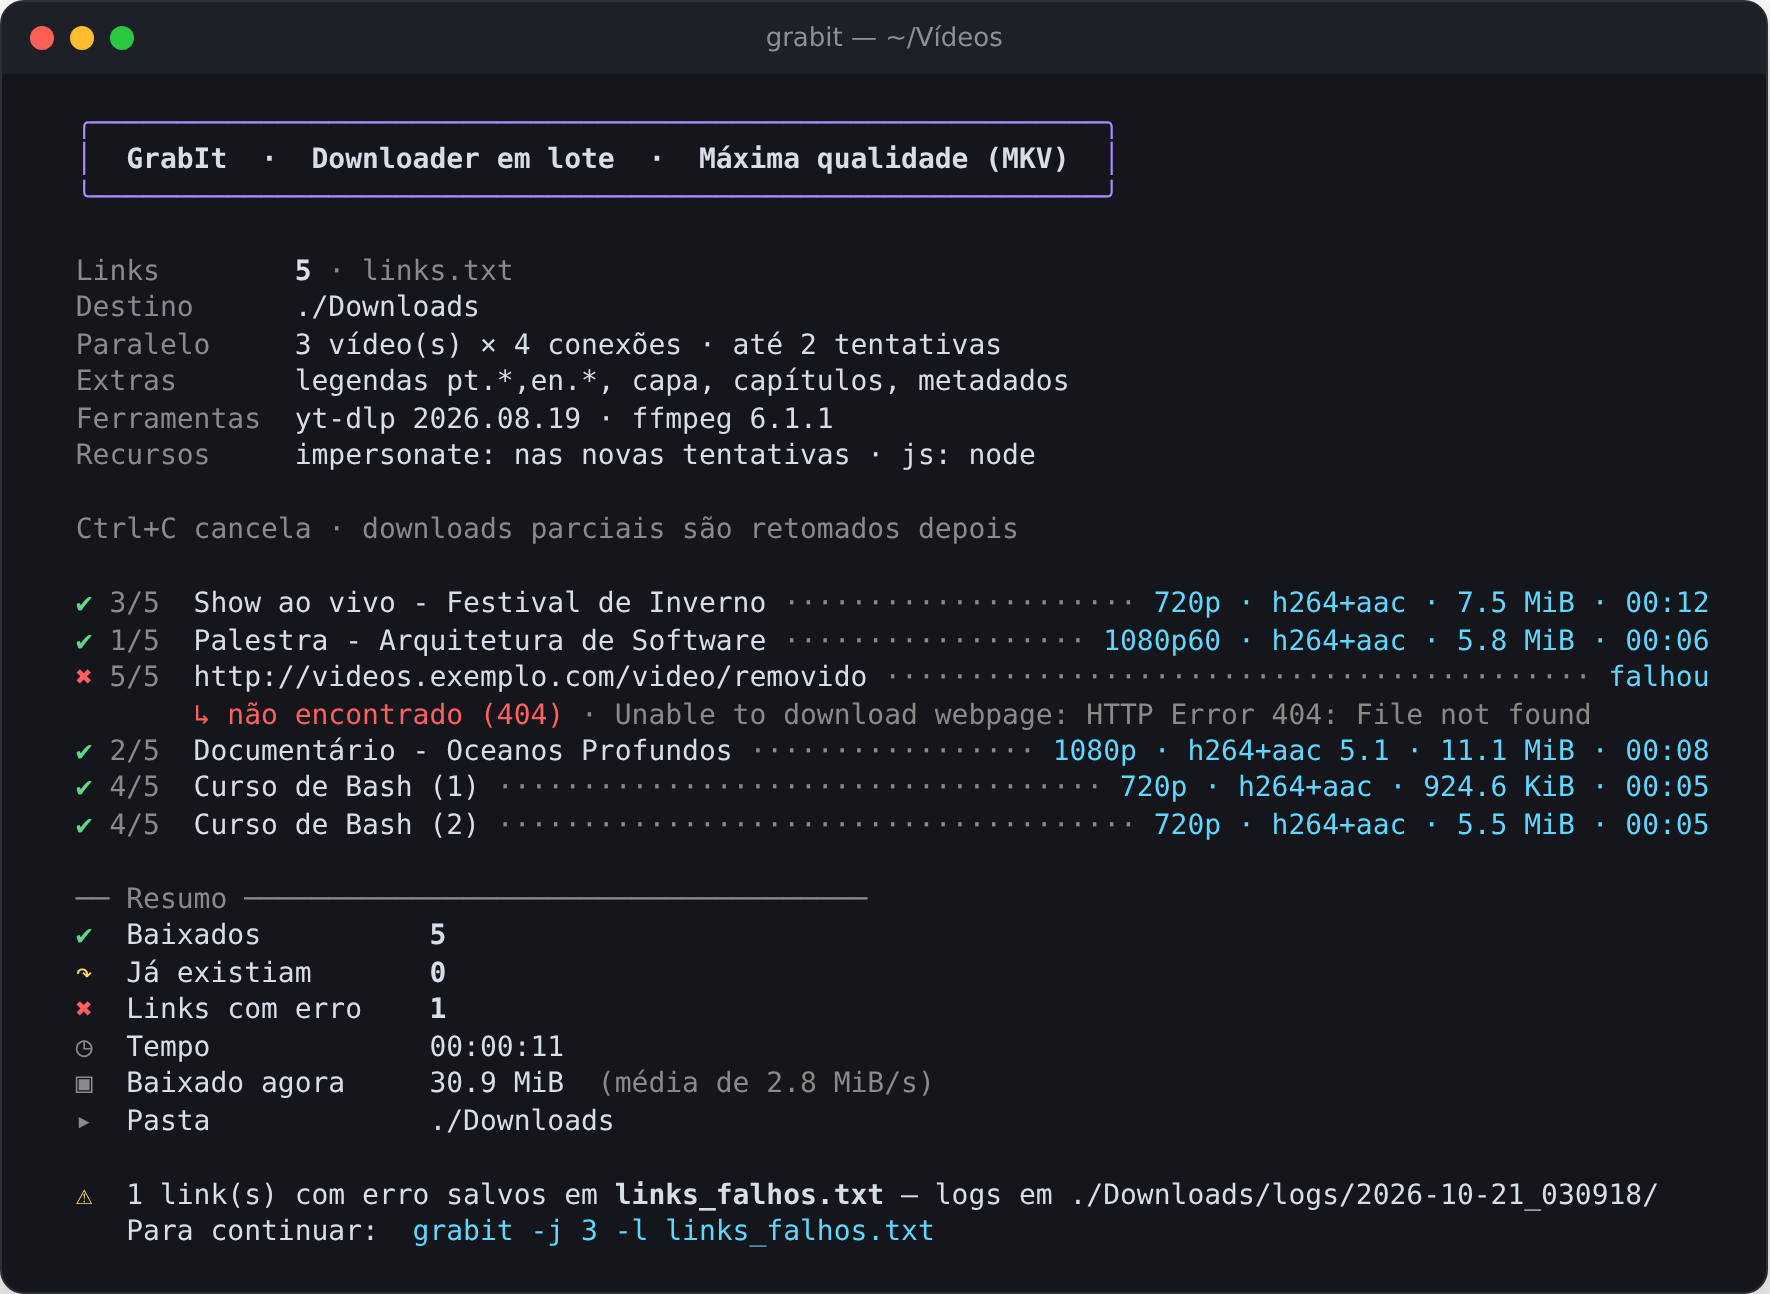
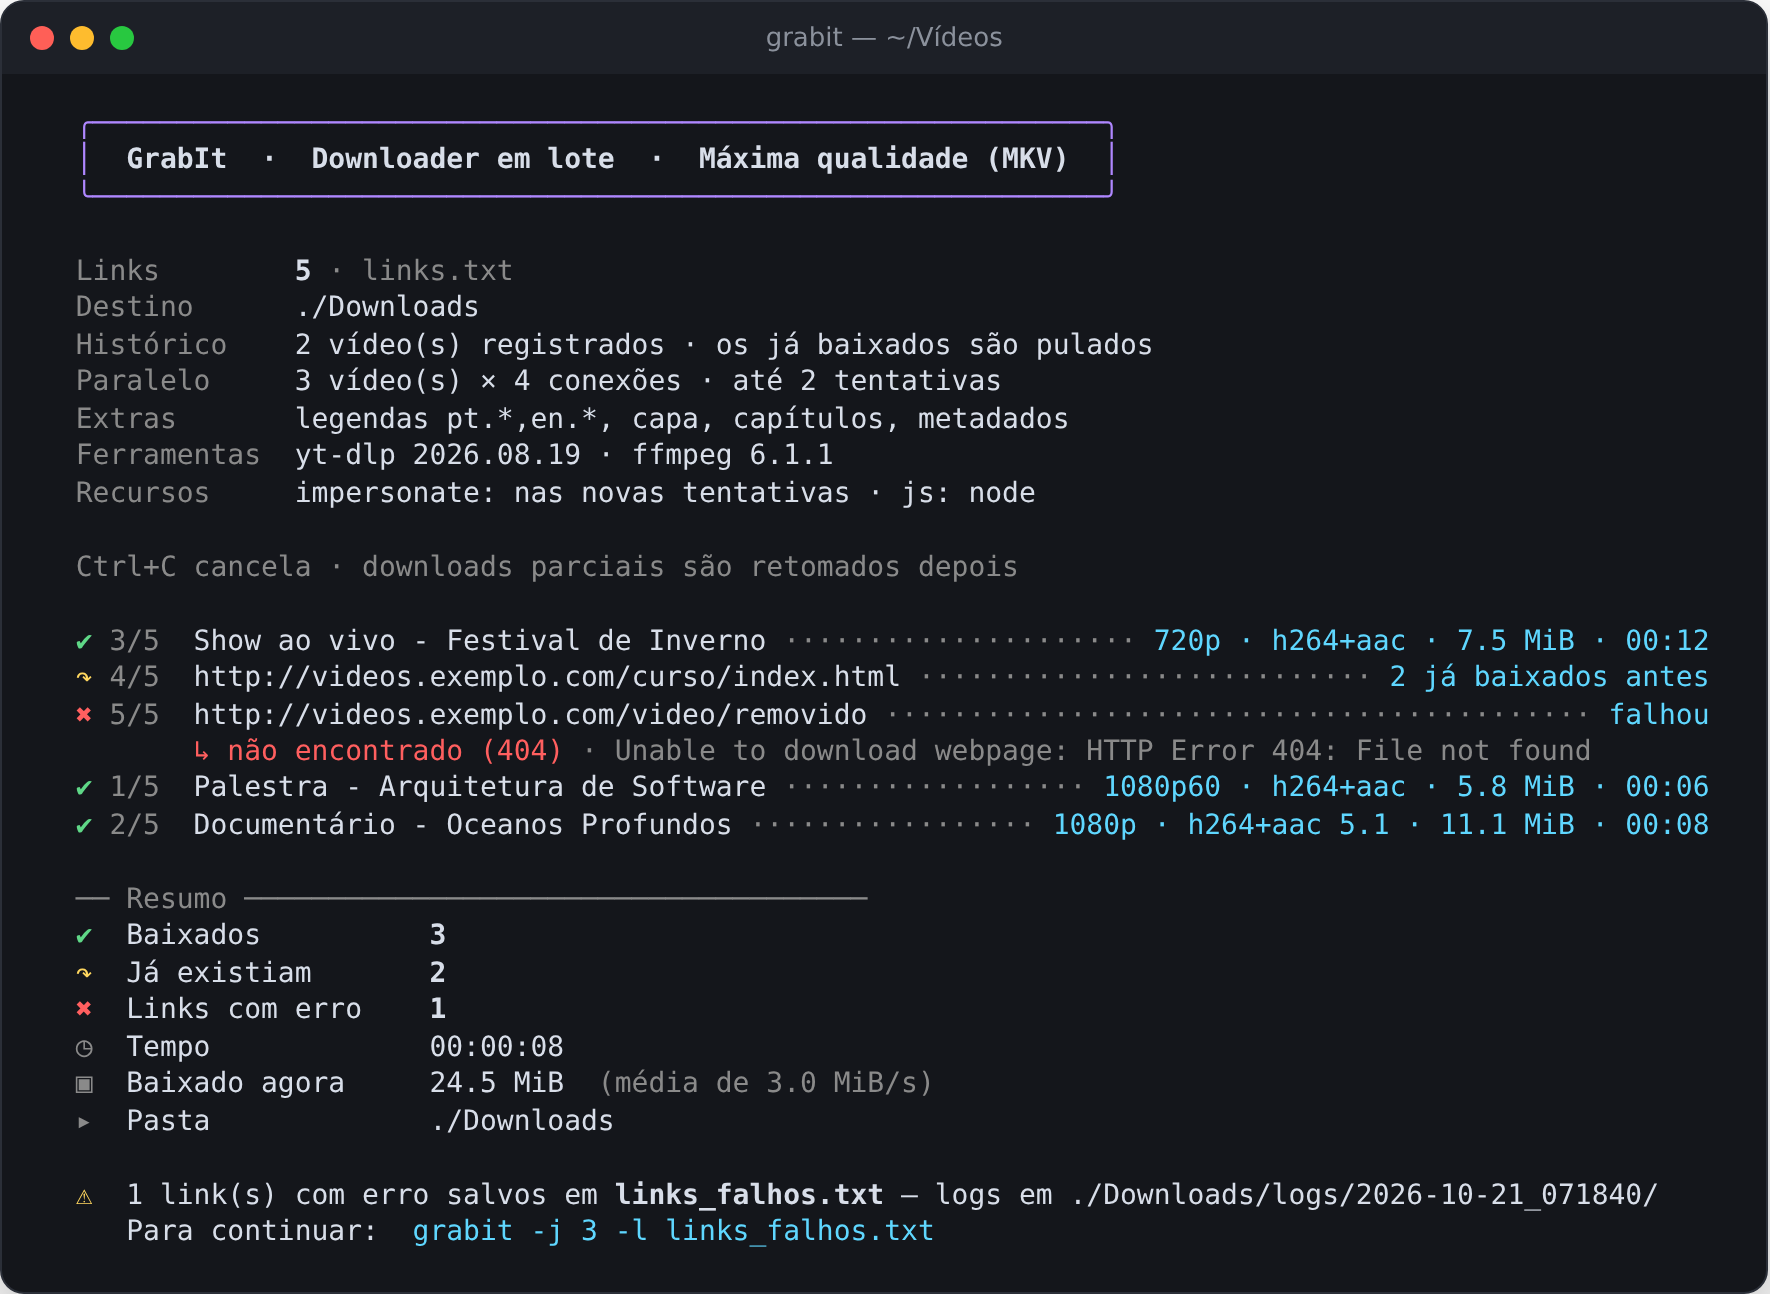
Histórico de baixados: pula na hora o que já foi baixado
Antes, para concluir que um vídeo já existia, o yt-dlp acessava o site de
novo, baixava capa e legendas e reescrevia o arquivo inteiro duas vezes
(metadados e capa). Agora cada vídeo baixado entra em
Downloads/.grabit-historico.txt e, nas próximas vezes, é pulado antes de
tudo, sem acessar a página nem tocar no arquivo.

- Opção -i para ignorar o histórico (ex.: baixar de novo um vídeo apagado)
- Linha "Histórico" no painel e links pulados mostrados como "já baixado antes"
- Corrige o alinhamento dos rótulos com acento no painel (printf conta bytes)
- README e capturas de tela atualizados

diff --git a/README.md b/README.md
@@ -28,7 +28,7 @@
 - **Painel ao vivo.** Progresso, velocidade, tempo restante e a qualidade de cada download, sem a enxurrada de texto do yt-dlp. No fim, cada vídeo mostra o que *realmente* foi gravado (lido do arquivo com `ffprobe`).
 - **Tudo dentro do arquivo.** Legendas, capa, capítulos e metadados vão embutidos no MKV.
 - **Resiliente.** Falhas passageiras ganham nova tentativa automática, downloads interrompidos são retomados de onde pararam e os erros vêm explicados em português.
-- **Não baixa duas vezes.** O que já existe na pasta é reconhecido e pulado.
+- **Não baixa duas vezes.** Cada vídeo baixado entra num histórico; na próxima vez ele é pulado na hora, sem acessar o site nem mexer no arquivo — mesmo que você já o tenha movido para outra pasta.
 
 ## Instalação
 
@@ -97,6 +97,7 @@ cat lista.txt | grabit -l -                  # lê os links da entrada padrão
 | `-p` | se o link for de um vídeo dentro de uma playlist, baixa só o vídeo | — |
 | `-a` | inclui legendas automáticas (as manuais continuam tendo prioridade) | — |
 | `-s` | marca patrocínios e intros como capítulos ([SponsorBlock](https://sponsor.ajay.app)) | — |
+| `-i` | ignora o histórico de baixados e confere arquivo por arquivo | — |
 | `-h` | mostra a ajuda | — |
 
 Algumas configurações também podem vir de variáveis de ambiente:
@@ -106,6 +107,7 @@ Algumas configurações também podem vir de variáveis de ambiente:
 | `IDIOMAS_LEGENDAS` | idiomas das legendas (`all` = todas) | `pt.*,en.*` |
 | `TENTATIVAS` | tentativas por link (`1` = sem repetir) | `2` |
 | `ARQUIVO_FALHAS` | onde salvar os links que falharam | `links_falhos.txt` |
+| `ARQUIVO_HISTORICO` | onde fica o histórico de baixados | `<pasta>/.grabit-historico.txt` |
 | `NO_COLOR` | desliga as cores | — |
 
 ```bash
@@ -121,7 +123,7 @@ IDIOMAS_LEGENDAS=all TENTATIVAS=3 grabit
 | Símbolo | Significado |
 |---|---|
 | ✔ | baixado agora |
-| ↷ | já existia na pasta, foi pulado |
+| ↷ | já tinha sido baixado (pelo histórico ou porque o arquivo já estava na pasta), foi pulado |
 | ✖ | falhou, com o motivo explicado logo abaixo |
 | ⚠ | o vídeo está completo, mas algum detalhe falhou (ex.: converter a capa) |
 
@@ -132,6 +134,7 @@ Os links que falharam vão para `links_falhos.txt`, e o próprio GrabIt mostra o
 - **Formato:** `bv*+ba/b` do yt-dlp (melhor vídeo + melhor áudio) com saída em **MKV**, que aceita qualquer codec. Nada é recodificado.
 - **Arquivos parciais** ficam em `Downloads/.parciais` e só o arquivo final pronto vai para a pasta. Cancelou com <kbd>Ctrl</kbd>+<kbd>C</kbd>? É só rodar de novo: o download continua de onde parou, e os links que ainda faltavam também vão para `links_falhos.txt`.
 - **Novas tentativas:** erros passageiros (rede, 403, 429) voltam para o fim da fila, imitando um navegador quando o `curl-cffi` está instalado. Erros permanentes (vídeo privado, removido, 404) não são repetidos.
+- **Histórico:** cada vídeo baixado é registrado em `Downloads/.grabit-historico.txt` (site + ID do vídeo). Nas próximas vezes ele é pulado antes de tudo: na maioria dos sites o GrabIt nem precisa abrir a página. Sem o histórico, o yt-dlp abriria a página de novo, baixaria a capa e reescreveria o arquivo inteiro só para concluir que ele já existe. Vídeos baixados antes do histórico existir passam por essa conferência uma única vez e já entram nele.
 - **Logs:** a saída completa do yt-dlp para cada link com problema fica em `Downloads/logs/<data>/`.
 - **Terminal:** o painel se adapta à largura da janela (inclusive se você redimensionar no meio), alinha títulos com emoji e caracteres asiáticos e, se a saída for redirecionada para um arquivo, troca o painel por linhas simples, sem cores.
 
@@ -140,6 +143,7 @@ Os links que falharam vão para `links_falhos.txt`, e o próprio GrabIt mostra o
 - **Mantenha o yt-dlp atualizado** (`yt-dlp -U` ou `pipx upgrade yt-dlp`): os sites mudam o tempo todo. O GrabIt avisa quando a versão instalada está velha.
 - **Vídeo pede login ou confirmação de idade?** Use `-b firefox` (ou o navegador em que você está logado).
 - **Retomar o que falhou:** `grabit -l links_falhos.txt`.
+- **Apagou um vídeo e quer baixá-lo de novo?** Rode com `-i` (ignora o histórico) ou apague a linha dele em `Downloads/.grabit-historico.txt`.
 
 ## Aviso
 
